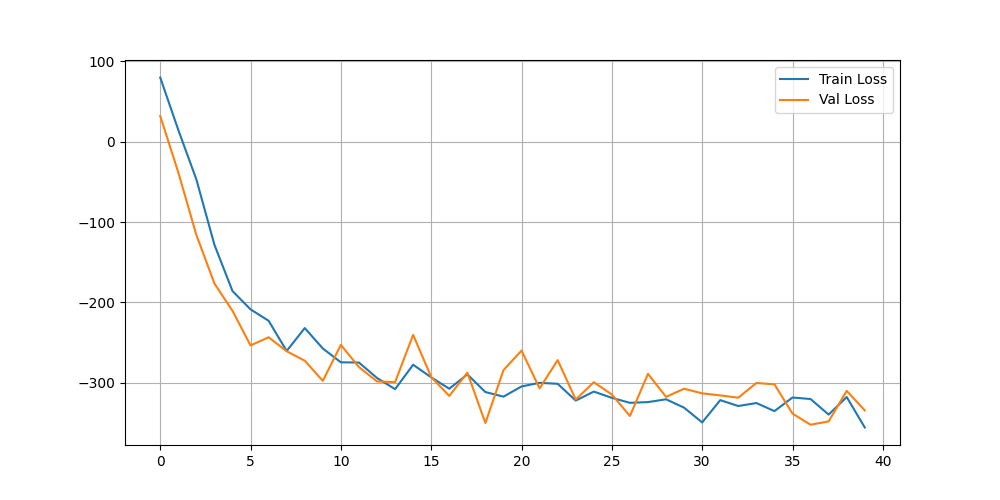
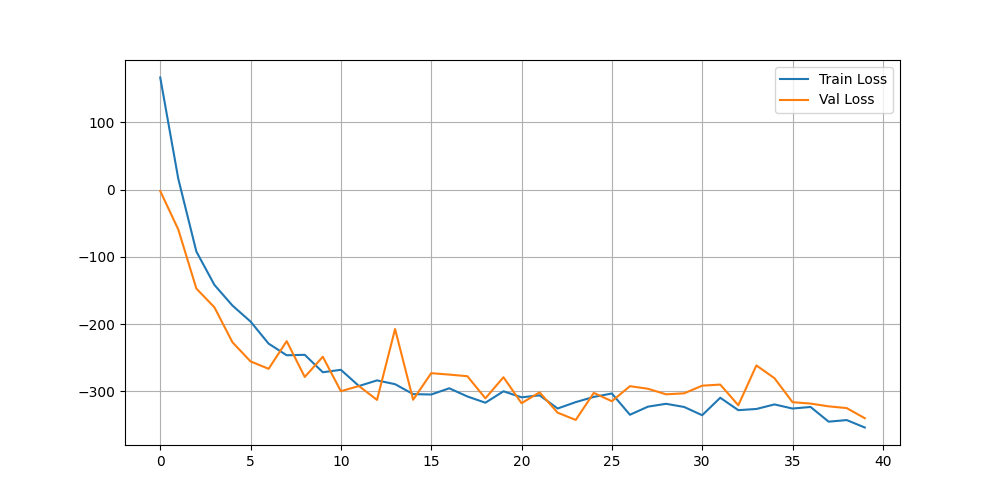
從資料/模型中刪除 MIDI 提示
將管道切換到無 MIDI 頻譜圖映射模式：從資料集和模型中刪除 MIDI 提示遮罩的產生和傳播。 AudioDataset 現在返回（waveform、target_spec、target_audios），目標頻譜圖僅限於音訊通道（mel/accomp）和更新的 load_with_retry 後備形狀。 AudioUNet.forward 簽章不再接受 midi_hints，並且 train.py / Predict.py 已更新為無需 MIDI 輸入即可呼叫模型。也更新了相關工件（bad_files.txt、separation_report.csv、評估/損失圖表）以反映新行為。

diff --git a/tools/turn_STFT_dataset.py b/tools/turn_STFT_dataset.py
@@ -100,10 +100,10 @@ class AudioDataset(Dataset):
             return torch.zeros((1, CONFIG["TARGET_BINS"], num_frames), dtype=torch.float32)
     def load_with_retry(self, idx, retry_count):
         if retry_count > 5:
-            # 失敗 fallback: 回傳全零張量 (352 是 16 的倍數，安全)
+            # 失敗 fallback
             return torch.zeros(CONFIG["CHUNK_SIZE"]), \
-                torch.zeros((2, CONFIG["TARGET_BINS"], 352)), \
-                torch.zeros((4, CONFIG["TARGET_BINS"], 352))
+                torch.zeros((4, CONFIG["TARGET_BINS"], 352)), \
+                torch.zeros((2, CONFIG["CHUNK_SIZE"]))
 
         orig_path = self.data_list[idx]
         fname = os.path.basename(orig_path)
@@ -112,10 +112,6 @@ class AudioDataset(Dataset):
             mel_audio_path = orig_path.replace(CONFIG["DIR_MIX"], CONFIG["DIR_MELODY"]).replace(CONFIG["EXT_MIX"], CONFIG["EXT_MELODY"])
             acc_audio_path = orig_path.replace(CONFIG["DIR_MIX"], CONFIG["DIR_ACCOMP"]).replace(CONFIG["EXT_MIX"], CONFIG["EXT_ACCOMP"])
             
-            midi_fname = fname.replace(CONFIG["EXT_MIX"], CONFIG["EXT_MIDI"])
-            midi_path_mel = os.path.join(CONFIG["MIDI_ROOT"], CONFIG["MIDI_SUB_MEL"], midi_fname)
-            midi_path_acc = os.path.join(CONFIG["MIDI_ROOT"], CONFIG["MIDI_SUB_ACC"], midi_fname)
-
             self._validate_file(orig_path)
             total_duration = librosa.get_duration(path=orig_path)
             start_time = np.random.uniform(0, max(0, total_duration - CONFIG["DURATION"]))
@@ -129,37 +125,18 @@ class AudioDataset(Dataset):
             wav_acc, _ = librosa.load(acc_audio_path, sr=CONFIG["SAMPLE_RATE"], offset=start_time, duration=CONFIG["DURATION"])
             spec_mel = self.wav_to_spec(librosa.util.fix_length(wav_mel, size=CONFIG["CHUNK_SIZE"]))
             spec_acc = self.wav_to_spec(librosa.util.fix_length(wav_acc, size=CONFIG["CHUNK_SIZE"]))
-            num_frames = spec_mel.shape[2]
             
-            # 3. 產生 MIDI 遮罩
-            mask_mel = self._generate_midi_mask(midi_path_mel, start_time, num_frames)
-            mask_acc = self._generate_midi_mask(midi_path_acc, start_time, num_frames)
+            # 3. 組合答案: [Audio_Mel, Audio_Acc]
+            # 這裡為了維持後續相容性，原本 target 有 4 通道 (含 MIDI)，現在改為 2 通道
+            target = torch.cat([spec_mel, spec_acc], dim=0)
             
-            # 4. 產生獨立的輸入提示 (獨立 Dropout)
-            hint_mel = torch.zeros_like(mask_mel)
-            hint_acc = torch.zeros_like(mask_acc)
-            
-            if self.split == "train":
-                if random.random() > CONFIG["PROB_DROP_MELODY_HINT"]:
-                    hint_mel = mask_mel
-                if random.random() > CONFIG["PROB_DROP_ACCOMP_HINT"]:
-                    hint_acc = mask_acc
-            else:
-                hint_mel, hint_acc = mask_mel, mask_acc
-            
-            # 合併為 2 通道提示: (2, F, T)
-            midi_hints = torch.cat([hint_mel, hint_acc], dim=0)
-            
-            # 5. 組合 4 通道答案: [Audio_Mel, Audio_Acc, MIDI_Mel, MIDI_Acc]
-            target = torch.cat([spec_mel, spec_acc, mask_mel, mask_acc], dim=0)
-            
-            # 6. 組合目標時域音訊供 SI-SDR 使用: [Melody_Wav, Accomp_Wav]
+            # 4. 組合目標時域音訊供 SI-SDR 使用: [Melody_Wav, Accomp_Wav]
             target_audios = torch.cat([
                 torch.from_numpy(wav_mel).unsqueeze(0),
                 torch.from_numpy(wav_acc).unsqueeze(0)
             ], dim=0)
             
-            return torch.from_numpy(wav_orig), midi_hints, target, target_audios
+            return torch.from_numpy(wav_orig), target, target_audios
 
         except Exception as e:
             self._log_error(f"{fname} | {str(e)}")

diff --git a/predict.py b/predict.py
@@ -9,7 +9,7 @@ from utils.u_net import AudioUNet
 #               參數設定
 # ==========================================
 # 1. 路徑設定
-MODEL_PATH = "./checkpoints_multi_task/best_model.pth"
+MODEL_PATH = "./checkpoints_acc_task/best_model.pth"
 INPUT_AUDIO = r"G:\project_data\two_line_midi\flac_output\mix_audio_flac\Classical_Classical_John Philip Sousa_Hands Across the Sea_mixed.flac"
 OUTPUT_DIR = "./results_accomp"
 OUTPUT_FILENAME = "accompaniment_no_hint.wav"
@@ -66,16 +66,11 @@ def main():
     # 準備模型輸入: (1, L)
     waveform_tensor = torch.from_numpy(y).unsqueeze(0).to(device)
     
-    # 4. 準備 MIDI Hints (全零)
-    # 計算 STFT 後的時間幀數: L // HOP_LENGTH + 1
-    num_frames = len(y) // HOP_LENGTH + 1
-    midi_hints = torch.zeros((1, 2, TARGET_BINS, num_frames), dtype=torch.float32).to(device)
-
-    # 5. 推論
+    # 4. 推論
     print("正在進行分離運算 (譜映射生成模式)...")
     with torch.no_grad():
         # 取得模型生成的頻譜 [1, 1, 1024, T]
-        mapped_spec = model(waveform_tensor, midi_hints).cpu().numpy()[0, 0]
+        mapped_spec = model(waveform_tensor).cpu().numpy()[0, 0]
         
     print(f"DEBUG: 模型輸出最大值: {mapped_spec.max():.4f}, 最小值: {mapped_spec.min():.4f}")
     if mapped_spec.max() < 1e-3:

diff --git a/train.py b/train.py
@@ -18,7 +18,7 @@ from utils.loss import AudioSeparationLoss
 # ==========================================
 # 1. 資料與儲存設定
 CSV_FILE = "classical_dataset.csv" 
-CHECKPOINT_DIR = "./checkpoints_multi_task"
+CHECKPOINT_DIR = "./checkpoints_acc_task"
 RESUME_BEST = False  # 是否繼承目前最佳權重
 RESUME_FROM = os.path.join(CHECKPOINT_DIR, "best_model.pth")
 
@@ -159,7 +159,7 @@ def main():
         model.train()
         train_loss_accum = 0
 
-        for batch_idx, (waveforms, midi_hints, targets, target_audios) in enumerate(train_loader):
+        for batch_idx, (waveforms, targets, target_audios) in enumerate(train_loader):
             waveforms = waveforms.to(device)
             targets = targets.to(device)
             target_audios = target_audios.to(device)
@@ -199,7 +199,7 @@ def main():
         model.eval()
         val_loss_accum = 0
         with torch.no_grad():
-            for waveforms, midi_hints, targets, target_audios in val_loader:
+            for waveforms, targets, target_audios in val_loader:
                 waveforms = waveforms.to(device)
                 targets = targets.to(device)
                 target_audios = target_audios.to(device)

diff --git a/utils/u_net.py b/utils/u_net.py
@@ -55,7 +55,7 @@ class AudioUNet(nn.Module):
 
         self.outc = nn.Conv2d(16, n_classes, kernel_size=1)
 
-    def forward(self, waveform, midi_hints=None, return_audio=False):
+    def forward(self, waveform, return_audio=False):
         # 1. GPU STFT 轉換
         stft = torch.stft(waveform, n_fft=self.n_fft, hop_length=self.hop_length, 
                           window=self.window, center=True, return_complex=True)
